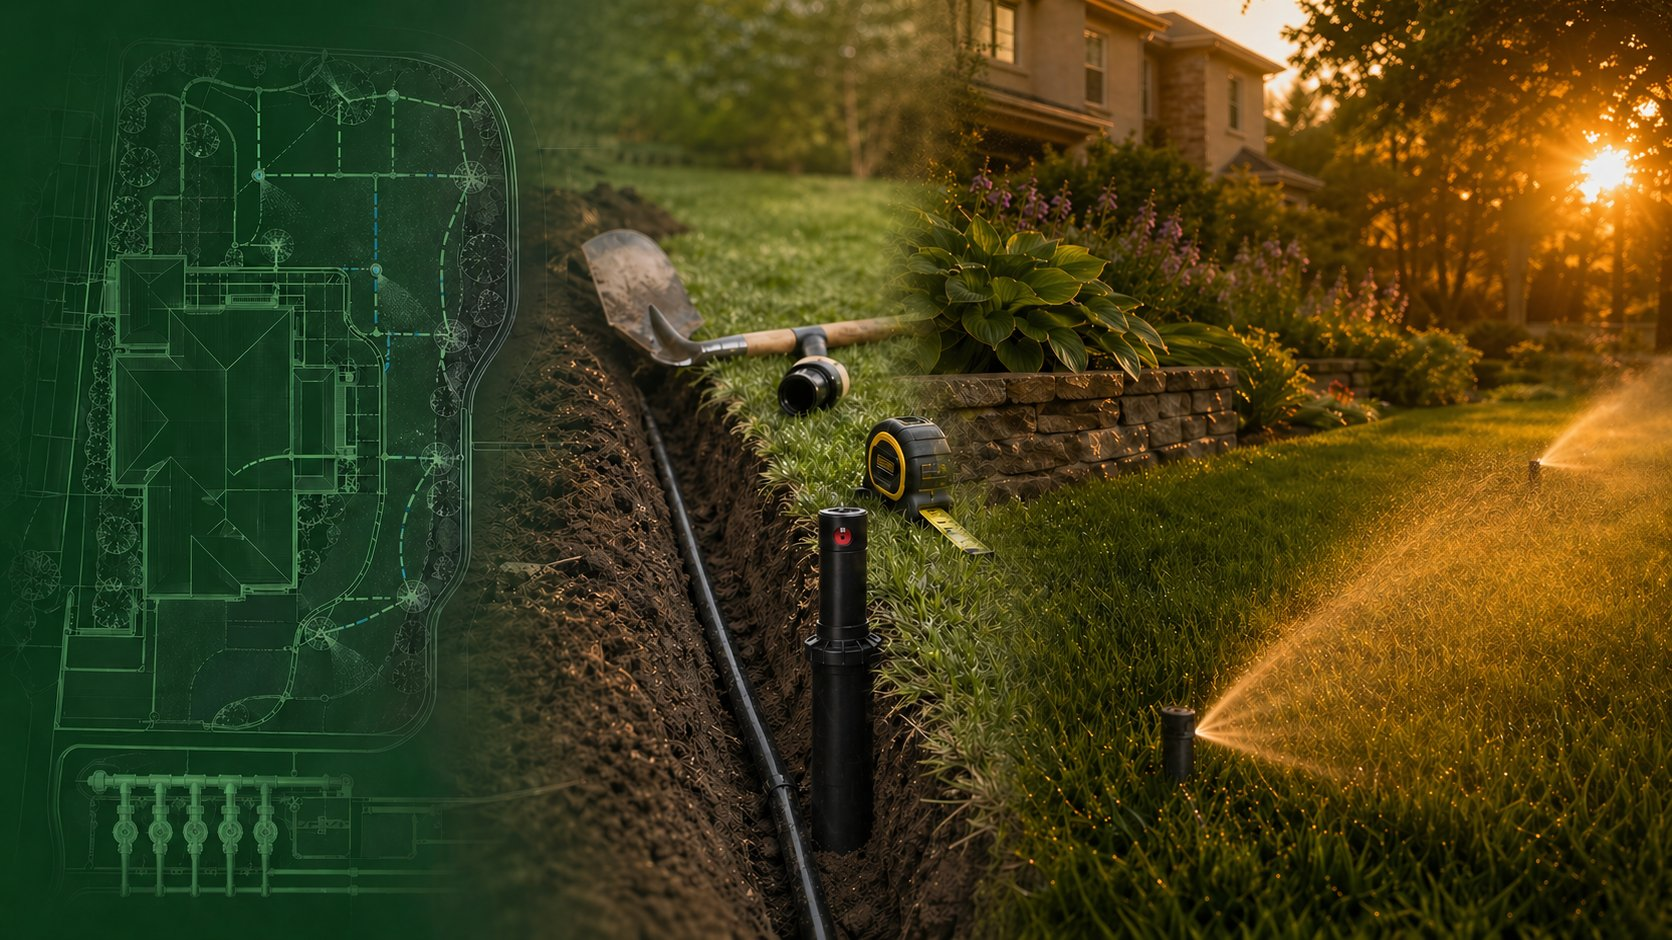
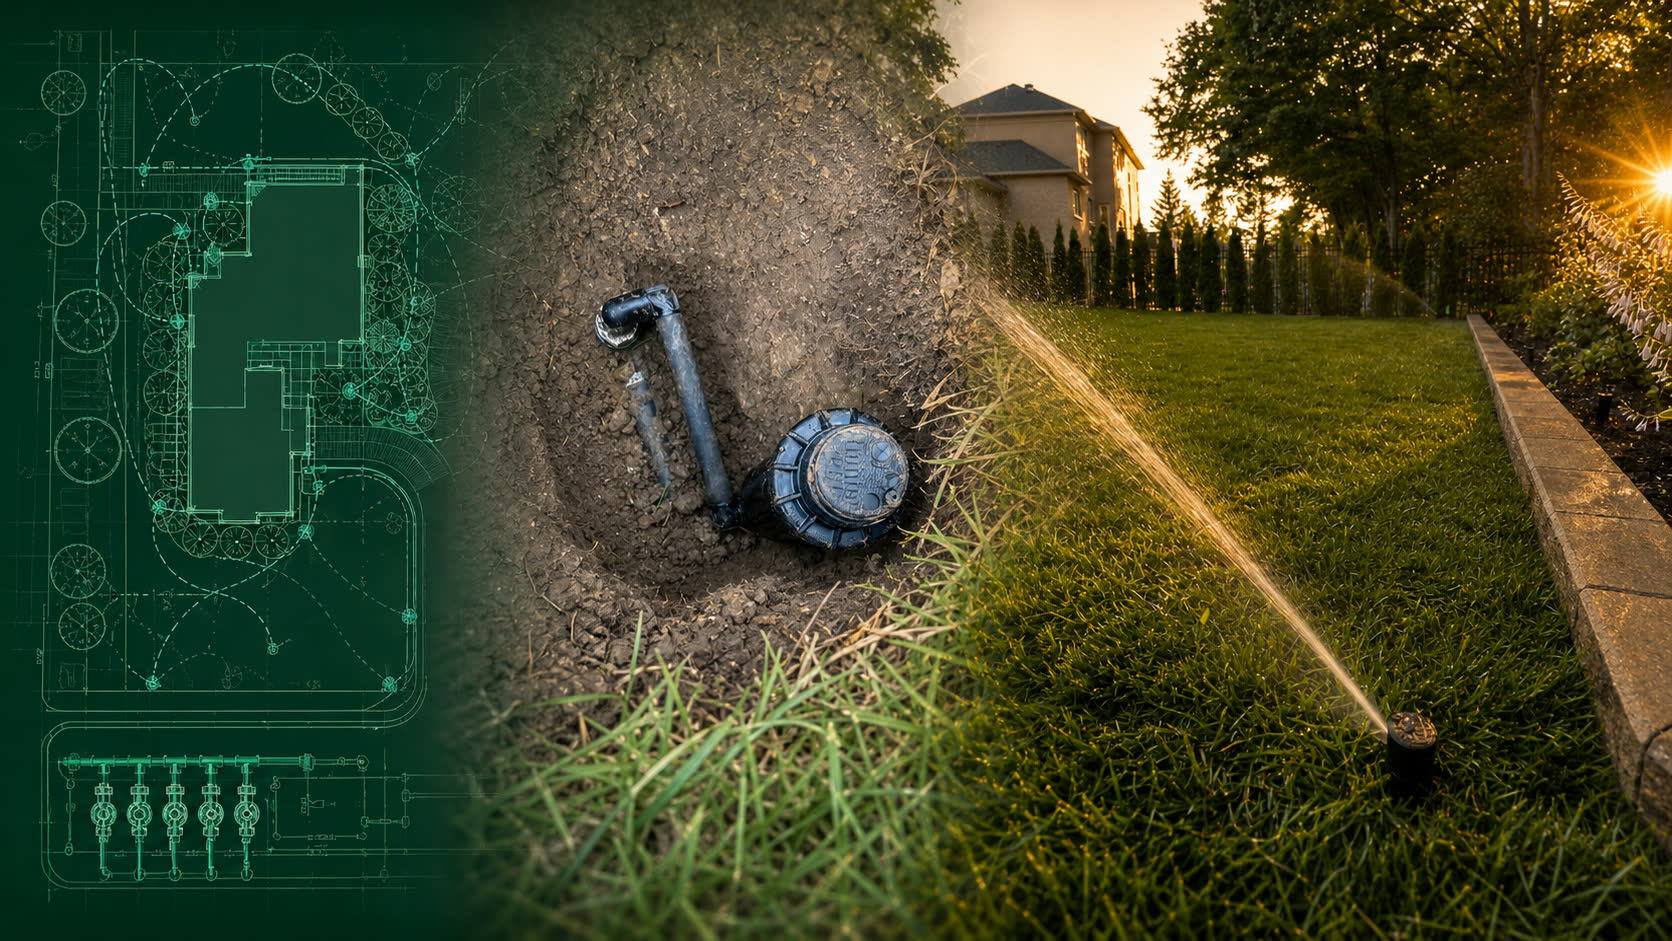
Replace sprinkler-installation hero composite with new PJL photo
User-supplied master shot (1672x941) of a Hunter rotor head being
installed in trench + adjacent lawn at sunset spray, with PJL site
plan / blueprint overlay on the left third. Replaces the previous
composite that was a stock-style shot with shovel + tape measure.

Files updated in-place (filenames preserved so all <img src> and
og:image references just keep working):
  - sprinkler-installation.jpg          1672 x 941, q5 (master)
  - sprinkler-installation@1280w.jpg    1280 x  720, q5
  - sprinkler-installation@800w.jpg      800 x  450, q6

Also bumped cache-bust version (?v=2) on the four <img>/srcset
references across index.html, sprinkler-systems.html and blog.html
so users with warm caches see the new image immediately rather
than waiting for natural cache expiry. og:image meta tags weren't
versioned -- social platforms refetch on share regardless.

diff --git a/blog.html b/blog.html
@@ -641,7 +641,7 @@
       <article class="blog-card" id="cost-guide">
         <a class="blog-card-img" href="blog-sprinkler-system-cost-ontario.html" aria-label="Read: How Much Does a Sprinkler System Cost in Ontario">
           <span class="blog-card-tag tag-spring" style="background:rgba(224,123,36,0.92);">💰 Pricing · Real Numbers</span>
-          <img src="sprinkler-installation.jpg" alt="How much does a sprinkler system cost in Ontario — install / repair / seasonal pricing from PJL Land Services" srcset="sprinkler-installation@800w.jpg 800w, sprinkler-installation@1280w.jpg 1280w, sprinkler-installation.jpg 1672w" sizes="100vw">
+          <img src="sprinkler-installation.jpg?v=2" alt="How much does a sprinkler system cost in Ontario — install / repair / seasonal pricing from PJL Land Services" srcset="sprinkler-installation@800w.jpg?v=2 800w, sprinkler-installation@1280w.jpg?v=2 1280w, sprinkler-installation.jpg?v=2 1672w" sizes="100vw">
         </a>
         <div class="blog-card-body">
           <div class="blog-card-meta">
@@ -848,7 +848,7 @@
       <article class="blog-card" id="installation">
         <a class="blog-card-img" href="blog-sprinkler-installation-newmarket.html" aria-label="Read: Lawn Sprinkler System Installation in Newmarket & the GTA">
           <span class="blog-card-tag tag-install">New Installation</span>
-          <img src="sprinkler-installation.jpg" alt="New lawn sprinkler system installation by PJL Land Services in the GTA" srcset="sprinkler-installation@800w.jpg 800w, sprinkler-installation@1280w.jpg 1280w, sprinkler-installation.jpg 1672w" sizes="100vw">
+          <img src="sprinkler-installation.jpg?v=2" alt="New lawn sprinkler system installation by PJL Land Services in the GTA" srcset="sprinkler-installation@800w.jpg?v=2 800w, sprinkler-installation@1280w.jpg?v=2 1280w, sprinkler-installation.jpg?v=2 1672w" sizes="100vw">
         </a>
         <div class="blog-card-body">
           <div class="blog-card-meta">

diff --git a/index.html b/index.html
@@ -1588,7 +1588,7 @@
         <div class="svc-body"><h3>Sprinkler Diagnosis & Repair</h3><p>Fast, honest diagnosis on any brand or system. We fix leaks, broken heads, pressure issues, and controller failures with clear timelines and upfront pricing.</p><span class="svc-link">Learn More <span class="svc-arrow">→</span></span></div>
       </a>
       <a href="sprinkler-installation.html" class="svc svc--install reveal reveal-delay-3">
-        <div class="svc-img"><img src="sprinkler-installation.jpg" alt="Sprinkler System Design and Installation Newmarket" srcset="sprinkler-installation@800w.jpg 800w, sprinkler-installation@1280w.jpg 1280w, sprinkler-installation.jpg 1672w" sizes="100vw"><span class="svc-tag">Installation</span></div>
+        <div class="svc-img"><img src="sprinkler-installation.jpg?v=2" alt="Sprinkler System Design and Installation Newmarket" srcset="sprinkler-installation@800w.jpg?v=2 800w, sprinkler-installation@1280w.jpg?v=2 1280w, sprinkler-installation.jpg?v=2 1672w" sizes="100vw"><span class="svc-tag">Installation</span></div>
         <div class="svc-body"><h3>System Design & Installation</h3><p>Custom-designed smart irrigation systems built for your property. Every installation includes a Hydrawise WiFi controller and a workmanship guarantee.</p><span class="svc-link">Learn More <span class="svc-arrow">→</span></span></div>
       </a>
       <a href="landscape-lighting.html" class="svc svc--lighting reveal reveal-delay-4">

diff --git a/sprinkler-systems.html b/sprinkler-systems.html
@@ -1944,7 +1944,7 @@ a.sprk-comp:focus-visible {
 
     <div class="service-detail-grid">
       <div class="service-detail-img reveal">
-        <img src="sprinkler-installation.jpg" alt="Sprinkler System Installation Newmarket GTA" srcset="sprinkler-installation@800w.jpg 800w, sprinkler-installation@1280w.jpg 1280w, sprinkler-installation.jpg 1672w" sizes="100vw">
+        <img src="sprinkler-installation.jpg?v=2" alt="Sprinkler System Installation Newmarket GTA" srcset="sprinkler-installation@800w.jpg?v=2 800w, sprinkler-installation@1280w.jpg?v=2 1280w, sprinkler-installation.jpg?v=2 1672w" sizes="100vw">
       </div>
       <div class="service-detail-content reveal reveal-delay-2">
         <h2>Tailored installations. Built to last.</h2>
